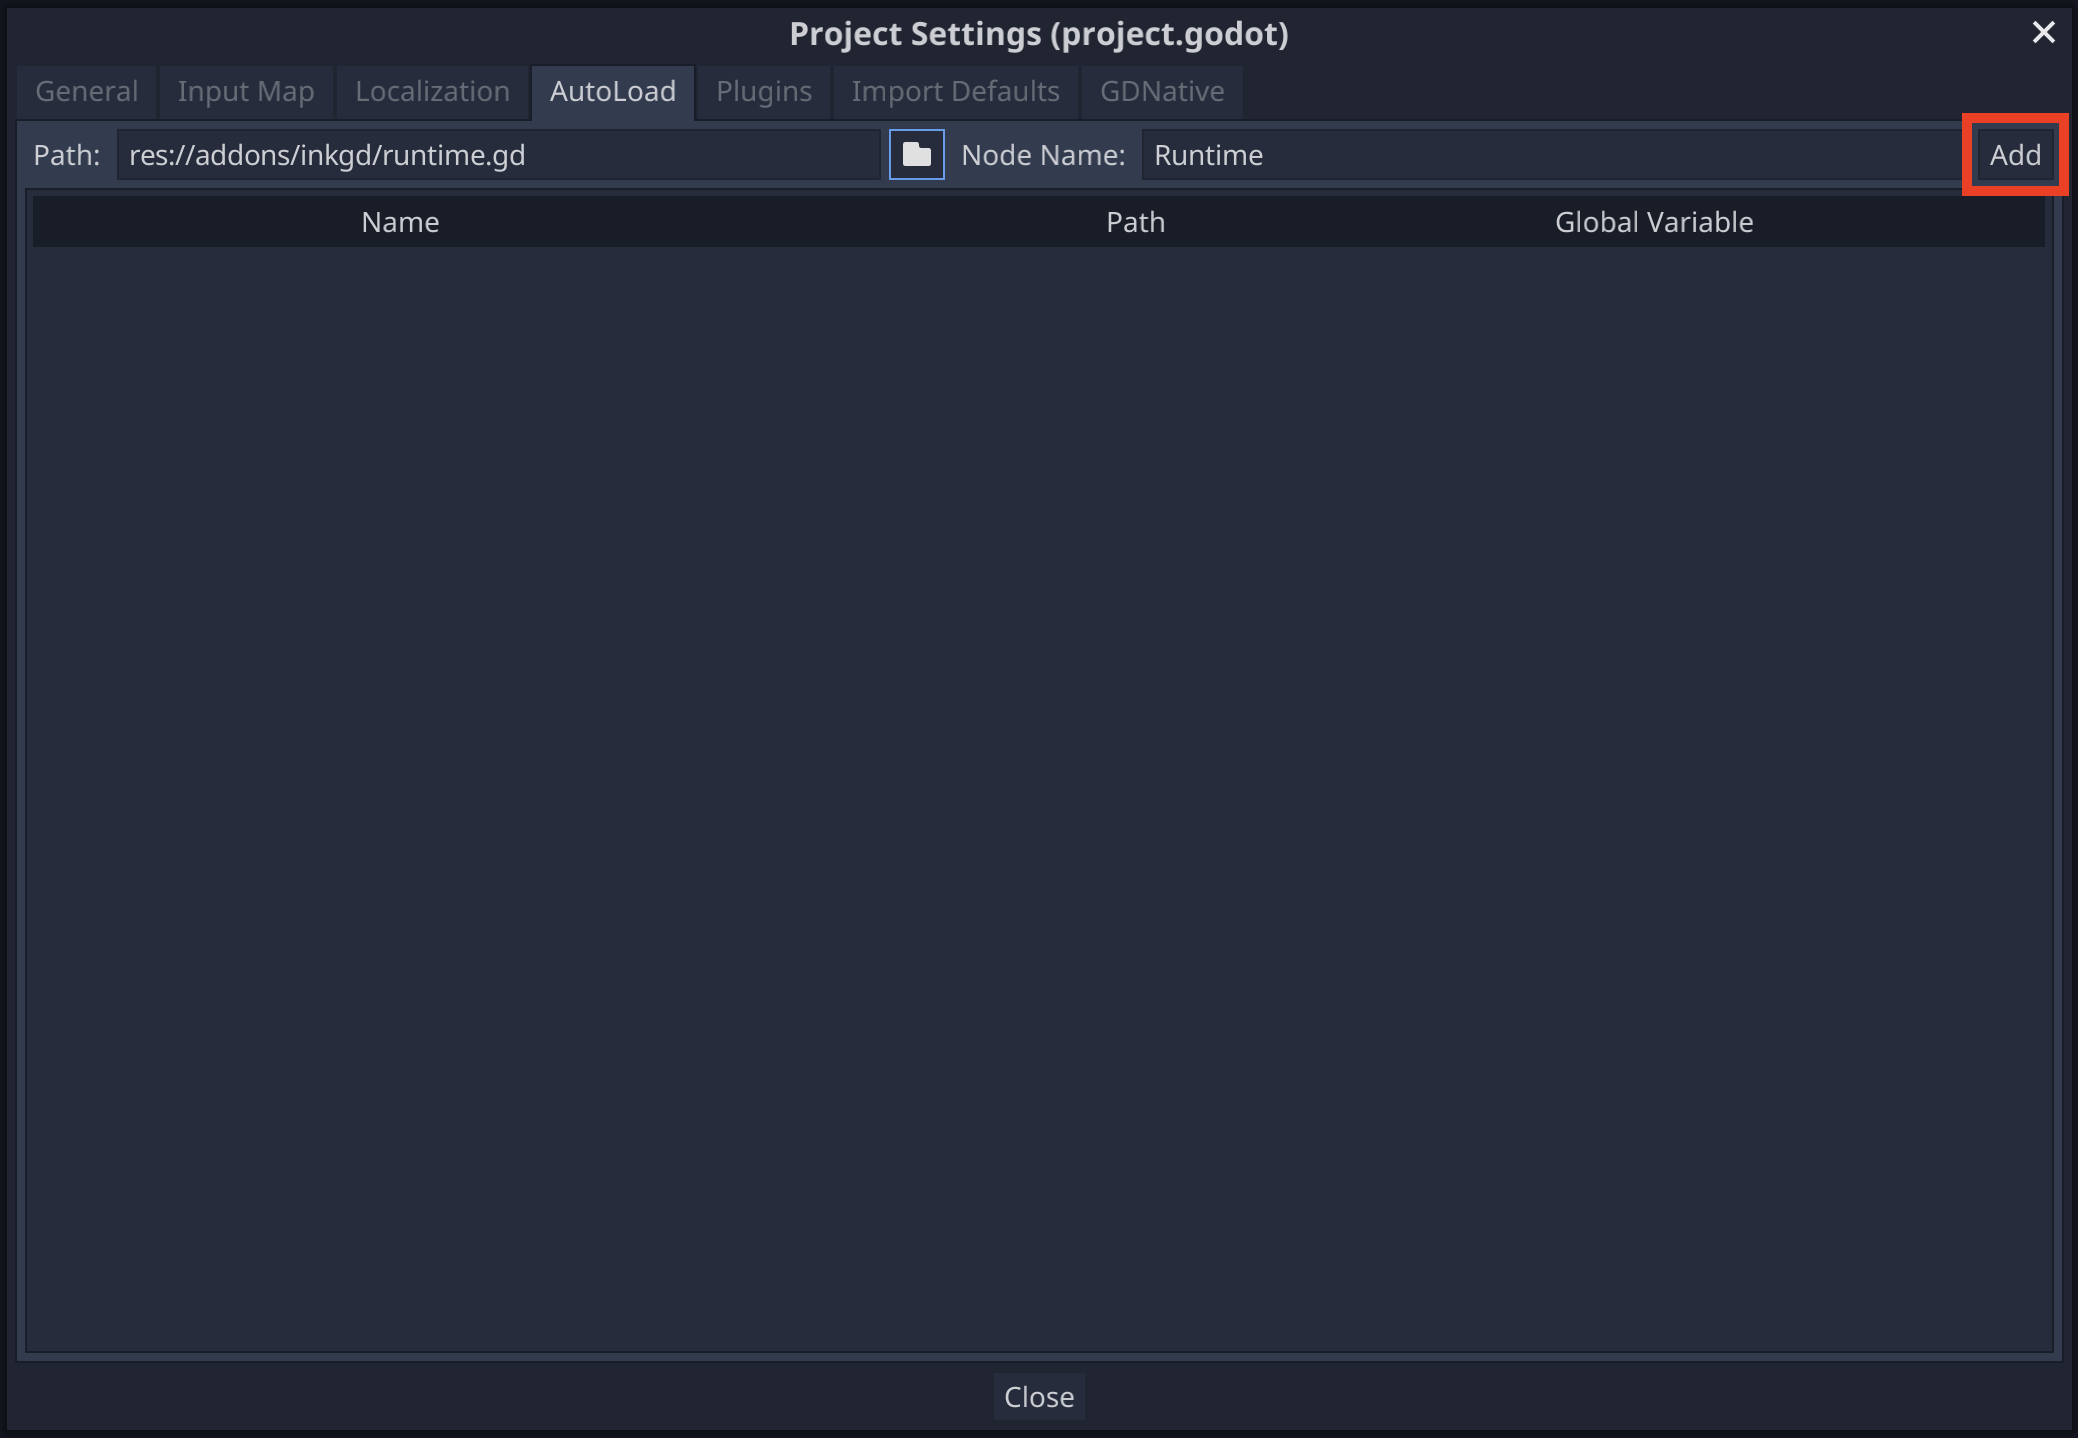
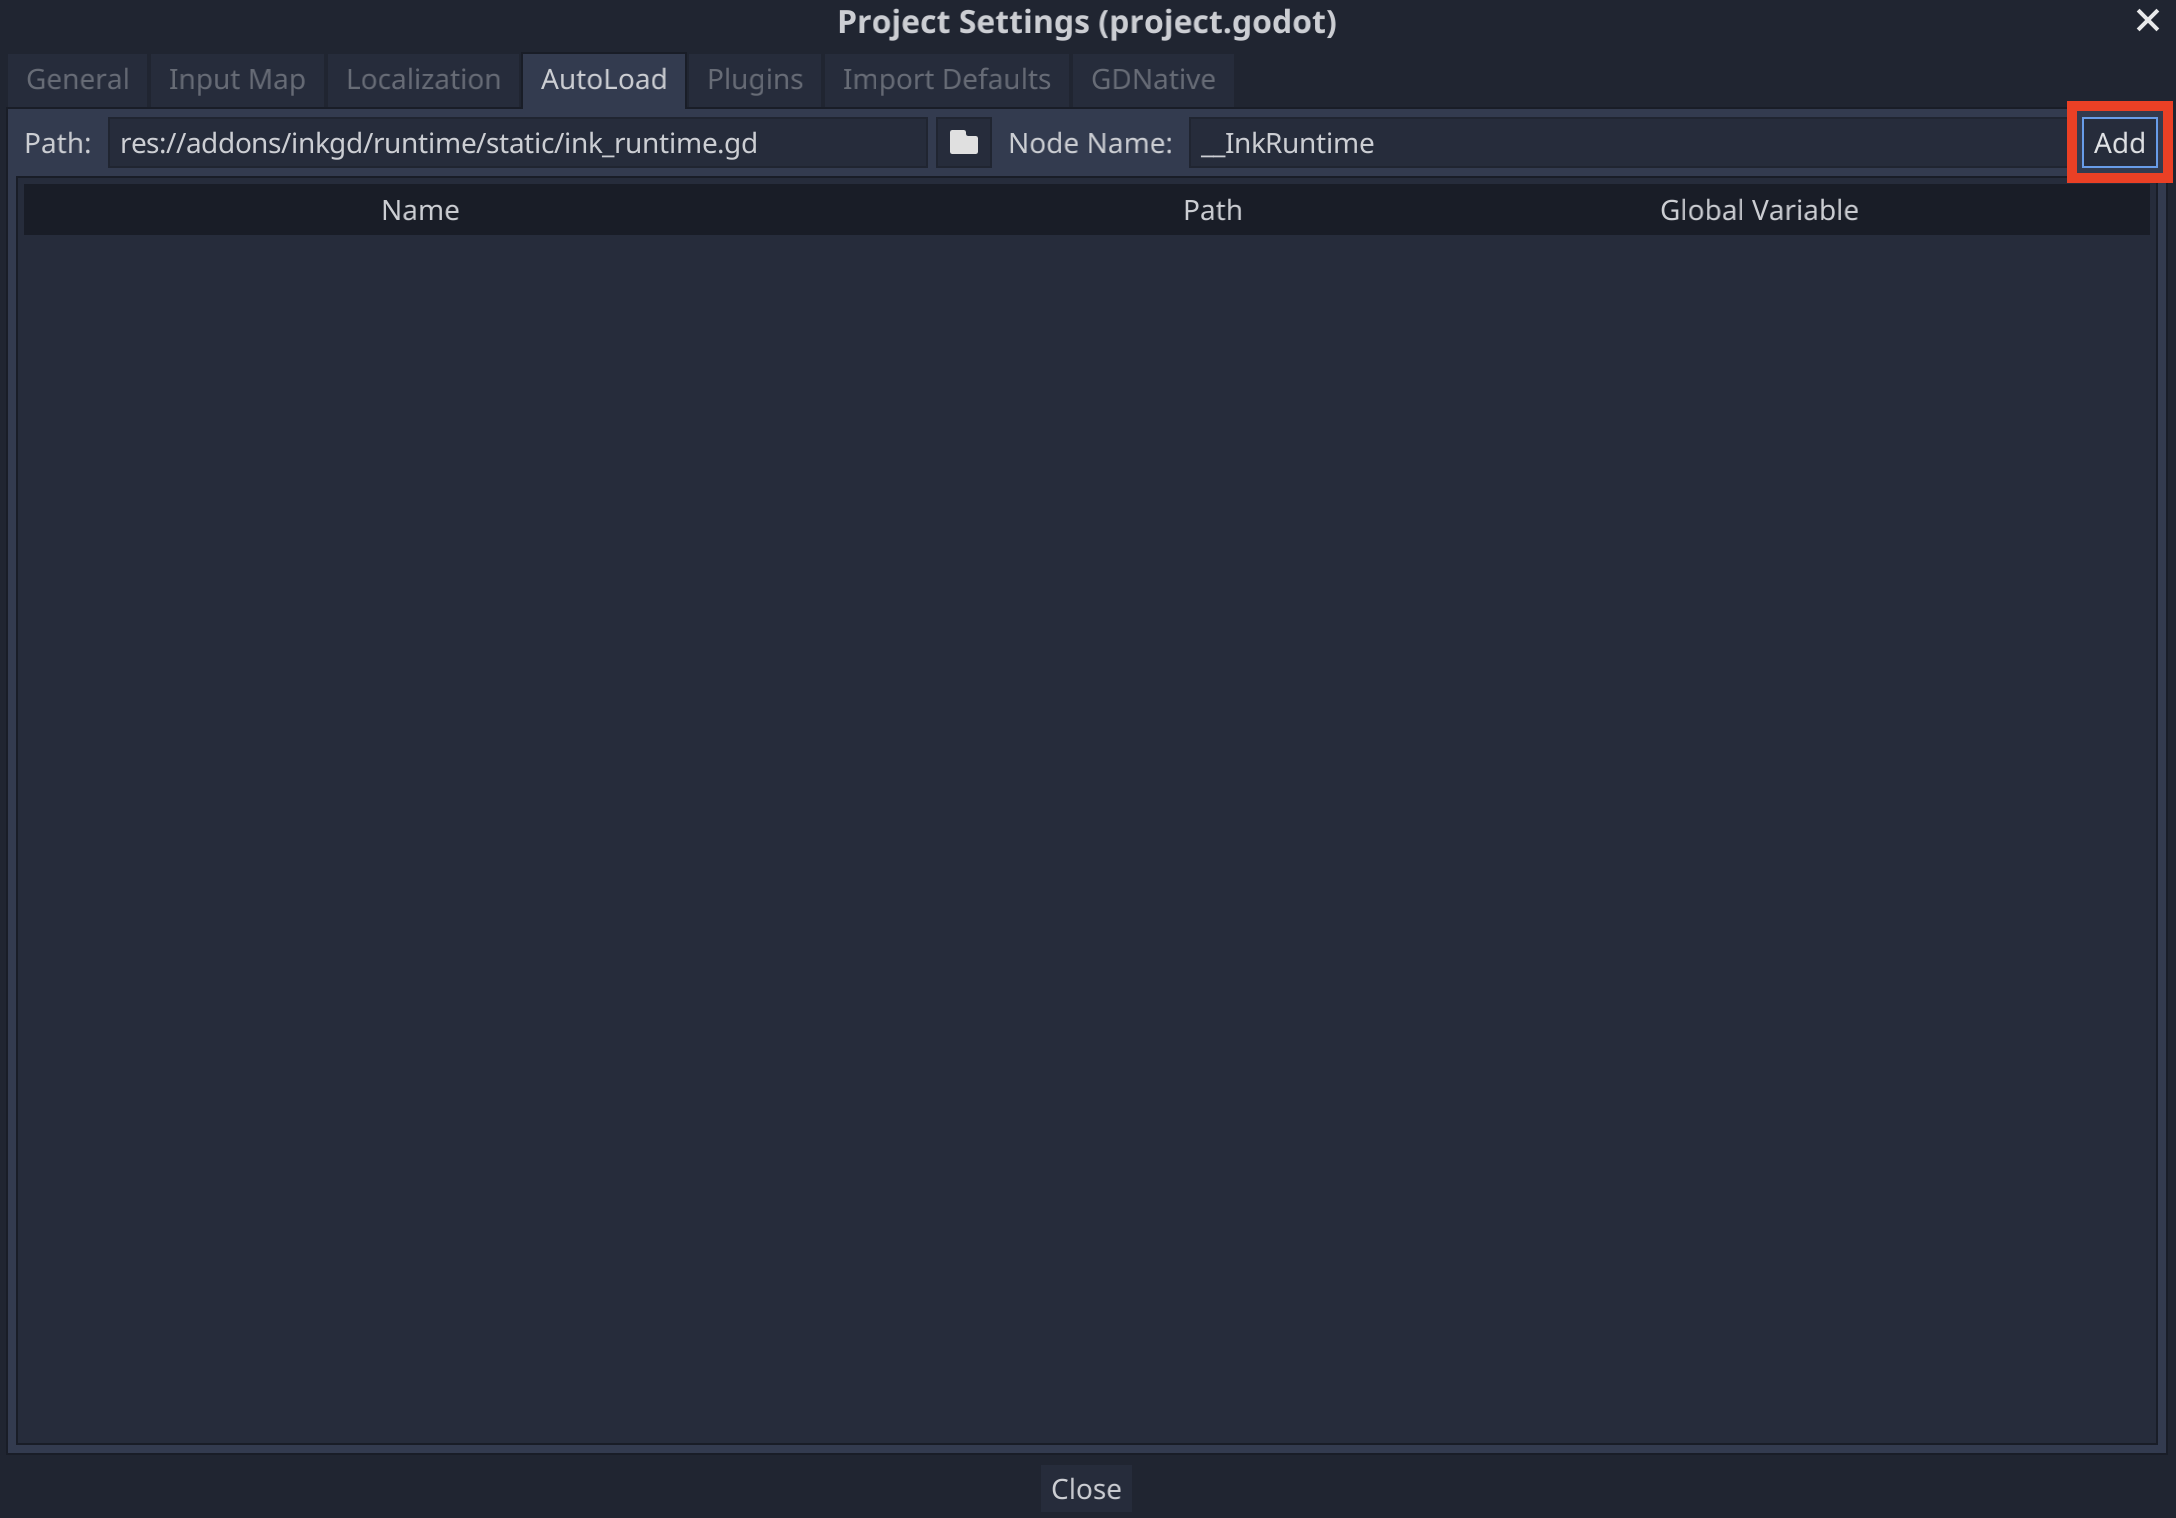
Fix the page documenting the runtime

Changed region(s): [[0.0, 0.0, 1.0, 1.0], [0.9548, 0.0, 1.0, 0.0306]]

diff --git a/docs/source/getting_started/configuration.rst b/docs/source/getting_started/configuration.rst
@@ -16,6 +16,9 @@ It's also possible to add ``res://addons/inkgd/runtime/static/ink_runtime.gd``
 to the AutoLoad list manually if it doesn't appear in the list or was previously
 removed.
 
+.. warning::
+  The singleton must be named "__InkRuntime".
+
 .. image:: img/introduction/auto_load_file_button.png
     :align: center
     :alt: The AutoLoad tab in the project settings.
